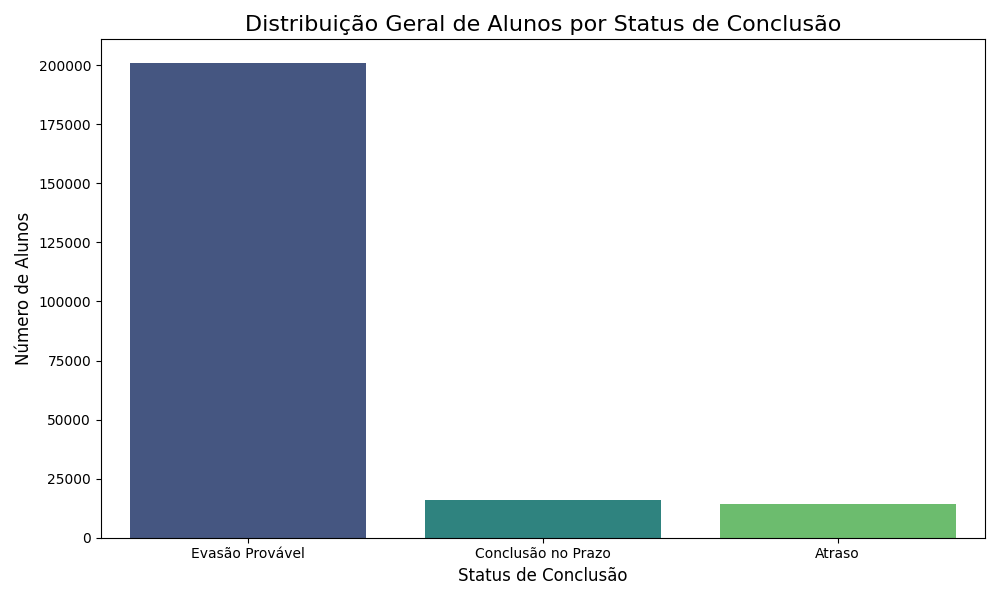
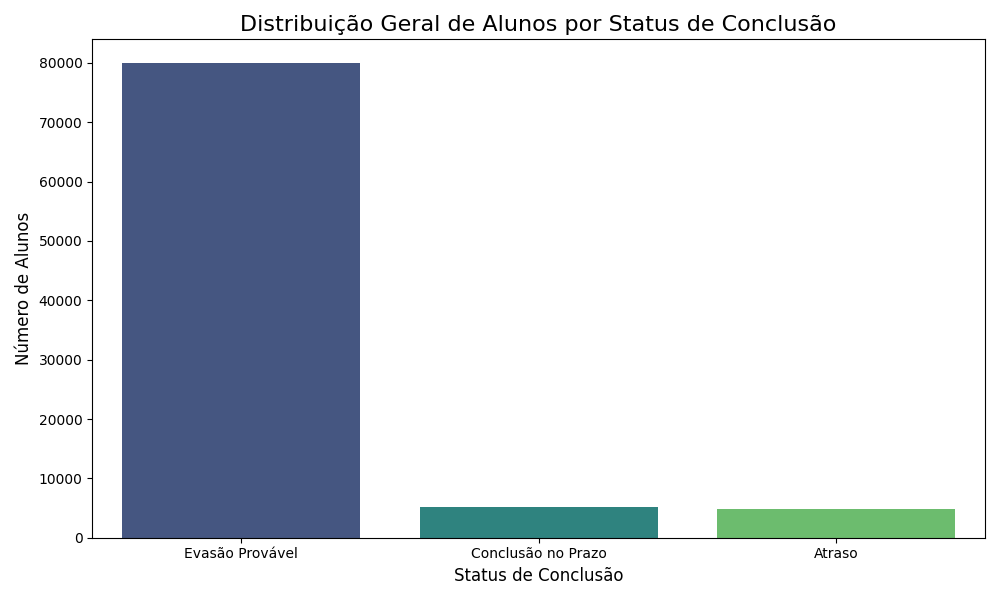
Mudança de variavel target e adição de coluna inscritos por vaga

diff --git a/src/main.py b/src/main.py
@@ -1,4 +1,6 @@
 import os
+import logging
+import argparse
 import pandas as pd
 from data_processing.data_integration import load_and_integrate_data, split_by_institution_type
 from preprocessing.preprocessor import preprocess_data, save_preprocessor
@@ -6,12 +8,44 @@ from modeling.train import train_model, evaluate_model, save_model
 from analysis.regression_analysis import analyze_feature_importance, plot_combined_feature_importance, save_metrics_report
 # Importa a função de análise do tempo ideal
 from analysis.comparative_analysis import run_ideal_time_analysis
+from utils.log_config import setup_logging, get_dated_log_filename
 
+LOG_LEVEL = logging.INFO
+
+
+def parse_args():
+     
+    parser = argparse.ArgumentParser(
+        description="Executa o pipeline completo de processamento de dados e ML."
+    )
+    
+    parser.add_argument(
+        '--skip-integration',
+        '-s',
+        action='store_true',  # Armazena True se a flag estiver presente
+        help="Se ativado, pula a etapa de carga/integração (load_and_integrate_data) "
+             "e carrega os DataFrames de amostra (publica_sample.csv e privada_sample.csv) diretamente.",
+        default=False
+    )
+
+    parser.add_argument(
+        '--disable-logging',
+        '-l',
+        action='store_true',
+        help="Desativa a criação de logs (seta o nível para CRITICAL).",
+        default=False
+    )
+
+    return parser.parse_args()
+    
 def main():
     """
     Executa o pipeline completo: integração, análise comparativa e, em seguida,
     o treinamento dos modelos de machine learning.
     """
+
+    args = parse_args()
+
     # Definição de caminhos
     DATA_PATH = 'data'
     MODELS_PATH = 'models'
@@ -21,25 +55,67 @@ def main():
     os.makedirs(MODELS_PATH, exist_ok=True)
     os.makedirs(FIGURES_PATH, exist_ok=True)
 
-    # 1. Carga e Integração de Dados
-    print("--- Iniciando Etapa 1: Carga e Integração de Dados ---")
-    integrated_df = load_and_integrate_data(DATA_PATH)
+    # Log caso ache necessário
+    # Obs integrate database não mostra logs detalhados por padrao
+    log_name = get_dated_log_filename(prefix="run")
     
-    if integrated_df.empty:
-        print("Nenhum dado retornado após a integração. Encerrando o pipeline.")
-        return
+    # O logger raiz é retornado
+    root_logger = setup_logging(
+        log_filename=log_name, 
+        log_level=LOG_LEVEL,
+        stream_level=LOG_LEVEL,
+        enable_logging=not args.disable_logging # Controlado pelo argumento
+    )
+    
+    logger = logging.getLogger('main')
+    logger.info("Iniciando o script principal...")
 
-    # 2. Executar a Análise Comparativa com o Tempo Ideal (para gerar relatórios)
-    # A função é chamada com uma cópia do DataFrame para garantir que o original não seja modificado
-    # com colunas que possam causar fuga de dados no modelo.
+    if args.skip_integration:
+        logger.warning("Parâmetro --skip-integration ativado. Carregando DataFrames de arquivos de amostra.")
+        print("--- Iniciando Etapa 1: Carregando DataFrames de Amostra (CSV) ---")
+        
+        # Caminhos dos arquivos de amostra salvos na execução anterior
+        publica_sample_path = os.path.join(DATA_PATH, 'publica_sample.csv')
+        privada_sample_path = os.path.join(DATA_PATH, 'privada_sample.csv')
+        
+        try:
+            df_publica = pd.read_csv(publica_sample_path)
+            df_privada = pd.read_csv(privada_sample_path)
+            logger.info(f"Dados públicos carregados: {len(df_publica)} linhas.")
+            logger.info(f"Dados privados carregados: {len(df_privada)} linhas.")
+
+            # Recria o integrated_df apenas para rodar a análise comparativa (concatena os dois)
+            integrated_df = pd.concat([df_publica, df_privada], ignore_index=True)
+
+        except FileNotFoundError as e:
+            logger.error(f"Erro ao carregar arquivos de amostra: {e}. Certifique-se de que eles foram salvos em uma execução anterior. Encerrando.", exc_info=True)
+            return
+        
+    else:
+        # 1. Carga e Integração de Dados (Lógica original)
+        logger.info("Iniciando Etapa 1: Carga e Integração de Dados (Completa).")
+        print("--- Iniciando Etapa 1: Carga e Integração de Dados ---")
+        integrated_df = load_and_integrate_data(DATA_PATH)
+        
+        if integrated_df.empty:
+            logger.error("Nenhum dado retornado após a integração. Encerrando o pipeline.")
+            return
+
+        # 3. Preparar dados para o treinamento dos modelos
+        df_publica, df_privada = split_by_institution_type(integrated_df)
+
+        # Salva os DataFrames processados para uso futuro com --skip-integration
+        df_publica.to_csv(os.path.join(DATA_PATH, 'publica_sample.csv'), index=False)
+        df_privada.to_csv(os.path.join(DATA_PATH, 'privada_sample.csv'), index=False)
+        logger.info("DataFrames públicos e privados salvos como amostra para reuso.")
+    
+    # --- Continuação do Pipeline (independente da origem dos dados) ---
+    
+    # 2. Executar a Análise Comparativa com o Tempo Ideal
     run_ideal_time_analysis(integrated_df.copy(), FIGURES_PATH)
+    logger.info("Análise Comparativa concluída.")
 
-    # 3. Preparar dados para o treinamento dos modelos
-    df_publica, df_privada = split_by_institution_type(integrated_df)
-
-    df_publica.to_csv('data/publica_sample.csv', index=False)
-    df_privada.to_csv('data/privada_sample.csv', index=False)
-    
+    # ... (O restante do seu código para treinamento de modelos)
     metrics = {}
     datasets_graficos = {}
     
@@ -56,7 +132,7 @@ def main():
         print(f"\n--- Processando Dados para Instituições do Tipo: {name.upper()} ---")
 
         # 4. Pré-processamento (agora com o preprocessor.py corrigido)
-        X_train, X_test, y_train, y_test, preprocessor_pipeline = preprocess_data(df)
+        X_train, X_test, y_train, y_test, preprocessor_pipeline = preprocess_data(df,target_column='taxa_integralizacao')
         save_preprocessor(preprocessor_pipeline, os.path.join(MODELS_PATH, f'preprocessor_{name}.joblib'))
 
         # 5. Treinamento do Modelo

diff --git a/src/data_processing/data_integration.py b/src/data_processing/data_integration.py
@@ -1,5 +1,6 @@
 import dask.dataframe as dd
 import pandas as pd
+import numpy as np
 import os
 import gc
 
@@ -8,6 +9,9 @@ def load_and_integrate_data(data_path):
     Carrega e integra os dados, corrigindo o formato decimal das colunas de
     duração do curso para garantir a criação correta do 'período ideal'.
     """
+
+    # A coluna categórica do curso pode variar entre CO_CINE_AREA_GERAL	e CO_CINE_AREA_ESPECIFICA
+
     # 1. Definir as colunas, incluindo as de tempo de integralização
     aluno_cols = [
         'nu_ano_censo', 'nu_ano_ingresso', 'tp_situacao', 'co_ies', 'co_curso',
@@ -17,7 +21,8 @@ def load_and_integrate_data(data_path):
     curso_cols = [
         'NU_ANO_CENSO', 'CO_IES', 'CO_CURSO', 'TP_MODALIDADE_ENSINO', 'NU_CARGA_HORARIA', 
         'TP_GRAU_ACADEMICO', 'NU_INTEGRALIZACAO_INTEGRAL', 'NU_INTEGRALIZACAO_MATUTINO',
-        'NU_INTEGRALIZACAO_VESPERTINO', 'NU_INTEGRALIZACAO_NOTURNO', 'NU_INTEGRALIZACAO_EAD'
+        'NU_INTEGRALIZACAO_VESPERTINO', 'NU_INTEGRALIZACAO_NOTURNO', 'NU_INTEGRALIZACAO_EAD',
+        'QT_INSCRITO_TOTAL','QT_VAGA_TOTAL'
     ]
     ies_cols = ['co_ies', 'nu_ano_censo', 'tp_categoria_administrativa', 'no_regiao_ies']
     igc_cols = ['ano', 'cod_ies', 'igc', 'igc_fx']
@@ -29,9 +34,9 @@ def load_and_integrate_data(data_path):
         os.path.join(data_path, 'ces', 'SoU_censo_alunos', 'SoU_censo_alunos_*', '*.csv'),
         sep=';', encoding='latin1', usecols=aluno_cols, dtype=dtype_map, assume_missing=True
     ).dropna()
-    cursos_df = pd.read_csv(os.path.join(data_path, 'ces', 'SoU_censo_cursos', 'SoU_censo_curso.csv'), sep=';', encoding='latin1', usecols=curso_cols)
+    cursos_df = pd.read_csv(os.path.join(data_path, 'ces', 'SoU_censo_cursos', 'SoU_censo_curso.csv'), sep=';', encoding='latin1', usecols=curso_cols, low_memory=False)
     ies_df = pd.read_csv(os.path.join(data_path, 'ces', 'SoU_censo_IES', 'SoU_censo_IES.csv'), sep=';', encoding='latin1', usecols=ies_cols)
-    igc_df = pd.read_csv(os.path.join(data_path, 'IGC', 'igc_tratado.csv'), sep=';', encoding='latin1', usecols=igc_cols)
+    igc_df = pd.read_csv(os.path.join(data_path, 'igc', 'igc_tratado.csv'), sep=';', encoding='latin1', usecols=igc_cols)
     igc_df = igc_df.rename(columns={'ano': 'nu_ano_censo', 'cod_ies': 'co_ies'})
 
     # 3. Criar 'tempo_permanencia' e 'duracao_ideal_anos' (corrigindo o formato decimal)
@@ -41,20 +46,27 @@ def load_and_integrate_data(data_path):
         'NU_INTEGRALIZACAO_INTEGRAL', 'NU_INTEGRALIZACAO_MATUTINO',
         'NU_INTEGRALIZACAO_VESPERTINO', 'NU_INTEGRALIZACAO_NOTURNO', 'NU_INTEGRALIZACAO_EAD'
     ]
-    
+    cursos_df["inscritos_por_vaga"] = np.divide(
+        cursos_df["QT_INSCRITO_TOTAL"],
+        cursos_df["QT_VAGA_TOTAL"],
+        out=np.full_like(cursos_df["QT_INSCRITO_TOTAL"], 0.0, dtype=float), 
+        where=cursos_df["QT_VAGA_TOTAL"] != 0
+    )
+    cursos_df = cursos_df.drop(columns=["QT_INSCRITO_TOTAL","QT_VAGA_TOTAL"])
+
     # --- CORREÇÃO PRINCIPAL AQUI ---
     for col in integralizacao_cols:
         # Substitui a vírgula pelo ponto e converte para número
         cursos_df[col] = cursos_df[col].str.replace(',', '.', regex=False)
         cursos_df[col] = pd.to_numeric(cursos_df[col], errors='coerce')
         
-    cursos_df['duracao_ideal_anos'] = cursos_df[integralizacao_cols].bfill(axis=1).iloc[:, 0]
+    cursos_df['duracao_ideal_anos'] = cursos_df[integralizacao_cols].mean(axis=1)
     cursos_df.dropna(subset=['duracao_ideal_anos'], inplace=True)
     cursos_df.drop(columns=integralizacao_cols, inplace=True)
 
     # 4. Harmonizar e Juntar os Dados
     cursos_df.columns = [col.lower() for col in cursos_df.columns]
-    for df in [cursos_df, ies_df, igc_df]:
+    for df in [alunos_dd, cursos_df, ies_df, igc_df]:
         for col in ['co_ies', 'nu_ano_censo', 'co_curso']:
             if col in df.columns:
                 df[col] = pd.to_numeric(df[col], errors='coerce').astype('Int64')
@@ -76,7 +88,9 @@ def load_and_integrate_data(data_path):
     print("--- Iniciando merge final com Dask... ---")
     final_df_dask = dd.merge(alunos_dd, cursos_ies_df.drop(columns=['nu_ano_censo']), on=['co_curso', 'co_ies'], how='inner')
     
-    cols_to_drop = ['nu_ano_ingresso', 'tp_situacao', 'co_ies', 'co_curso', 'igc_fx']
+    final_df_dask['taxa_integralizacao'] = final_df_dask['tempo_permanencia'] / final_df_dask['duracao_ideal_anos']
+
+    cols_to_drop = ['tempo_permanencia', 'nu_ano_ingresso', 'tp_situacao', 'co_ies', 'co_curso', 'igc_fx']
     final_df_dask = final_df_dask.drop(columns=[col for col in cols_to_drop if col in final_df_dask.columns])
 
     print("--- Computando o DataFrame final... ---")

diff --git a/src/utils/log_config.py b/src/utils/log_config.py
@@ -1,0 +1,68 @@
+import logging
+import os
+from pathlib import Path
+from datetime import datetime
+
+# Define a pasta de logs padrão
+LOG_DIR = Path('logs')
+
+def setup_logging(log_filename="pipeline_execution.log", 
+                  log_level=logging.INFO, 
+                  stream_level=logging.INFO,
+                  enable_logging=True):
+    """
+    Configura o sistema de logging: cria o diretório de logs se não existir
+    """
+    logger = logging.getLogger() # Pega o logger raiz
+
+    if not enable_logging:
+        # Define o nível do logger raiz para CRITICAL. 
+        # Isso garante que a maioria dos INFO/DEBUG/WARNING seja ignorada, 
+        # minimizando a sobrecarga de performance.
+        logger.setLevel(logging.CRITICAL)
+        return logger
+    # ----------------------------------------------------
+    # 1. Cria o diretório de logs se ele não existir
+    # os.makedirs(..., exist_ok=True) é a forma segura e recomendada
+    os.makedirs(LOG_DIR, exist_ok=True)
+    
+    log_path = LOG_DIR / log_filename
+    
+    # 2. Configuração do Formato
+    # Formato detalhado para o arquivo de log
+    file_formatter = logging.Formatter(
+        '%(asctime)s - %(name)s - %(levelname)s - %(message)s',
+        datefmt='%Y-%m-%d %H:%M:%S'
+    )
+    # Formato mais conciso para o console
+    stream_formatter = logging.Formatter('%(levelname)s: %(message)s')
+
+    # 3. Criação do Logger Raiz
+    # Sempre configure o logger do módulo/pacote principal (ou o root logger)
+    logger = logging.getLogger() # Pega o logger raiz
+    logger.setLevel(logging.DEBUG) # Nível mais baixo para garantir que todos os logs sejam capturados
+
+    # Evita adicionar handlers se a função for chamada mais de uma vez
+    if not logger.handlers:
+        
+        # 4. Configuração do Handler para Arquivo (FileHandler)
+        file_handler = logging.FileHandler(log_path, mode='w', encoding='utf-8')
+        file_handler.setLevel(log_level)
+        file_handler.setFormatter(file_formatter)
+        logger.addHandler(file_handler)
+
+        # 5. Configuração do Handler para Console (StreamHandler)
+        stream_handler = logging.StreamHandler()
+        stream_handler.setLevel(stream_level)
+        stream_handler.setFormatter(stream_formatter)
+        logger.addHandler(stream_handler)
+
+    logger.info(f"Sistema de logging configurado. Logs salvos em: {log_path.resolve()}")
+    
+    return logger
+
+# Exemplo de como gerar um nome de arquivo único baseado na data (opcional)
+def get_dated_log_filename(prefix="pipeline", extension=".log"):
+    """Gera um nome de arquivo de log com timestamp."""
+    timestamp = datetime.now().strftime("%Y%m%d_%H%M%S")
+    return f"{prefix}_{timestamp}{extension}"

diff --git a/src/modeling/train.py b/src/modeling/train.py
@@ -15,7 +15,14 @@ def train_model(X_train, y_train,params= None):
         O modelo treinado.
     """
     if params is None:
-        params = {}
+        params = {
+            'bootstrap': True, 
+            'criterion': 'squared_error',
+            'max_depth': 30, 
+            'min_samples_leaf': 1,
+            'min_samples_split': 2,
+            'n_estimators': 300
+        }
     
     if 'n_estimators' not in params:
         params['n_estimators'] = 100

diff --git a/src/runtests.py b/src/runtests.py
@@ -27,6 +27,7 @@ parser.add_argument('--method', type=str, default='grid',
                     help='Choose the search method: "grid" for GridSearchCV or "random" for RandomizedSearchCV.')
 parser.add_argument('--n_iter', type=int, default=20,
                     help='Number of iterations for RandomizedSearchCV.')
+
 args = parser.parse_args()
 
 # Define o modelo e os hiperparâmetros com base na escolha do usuário
